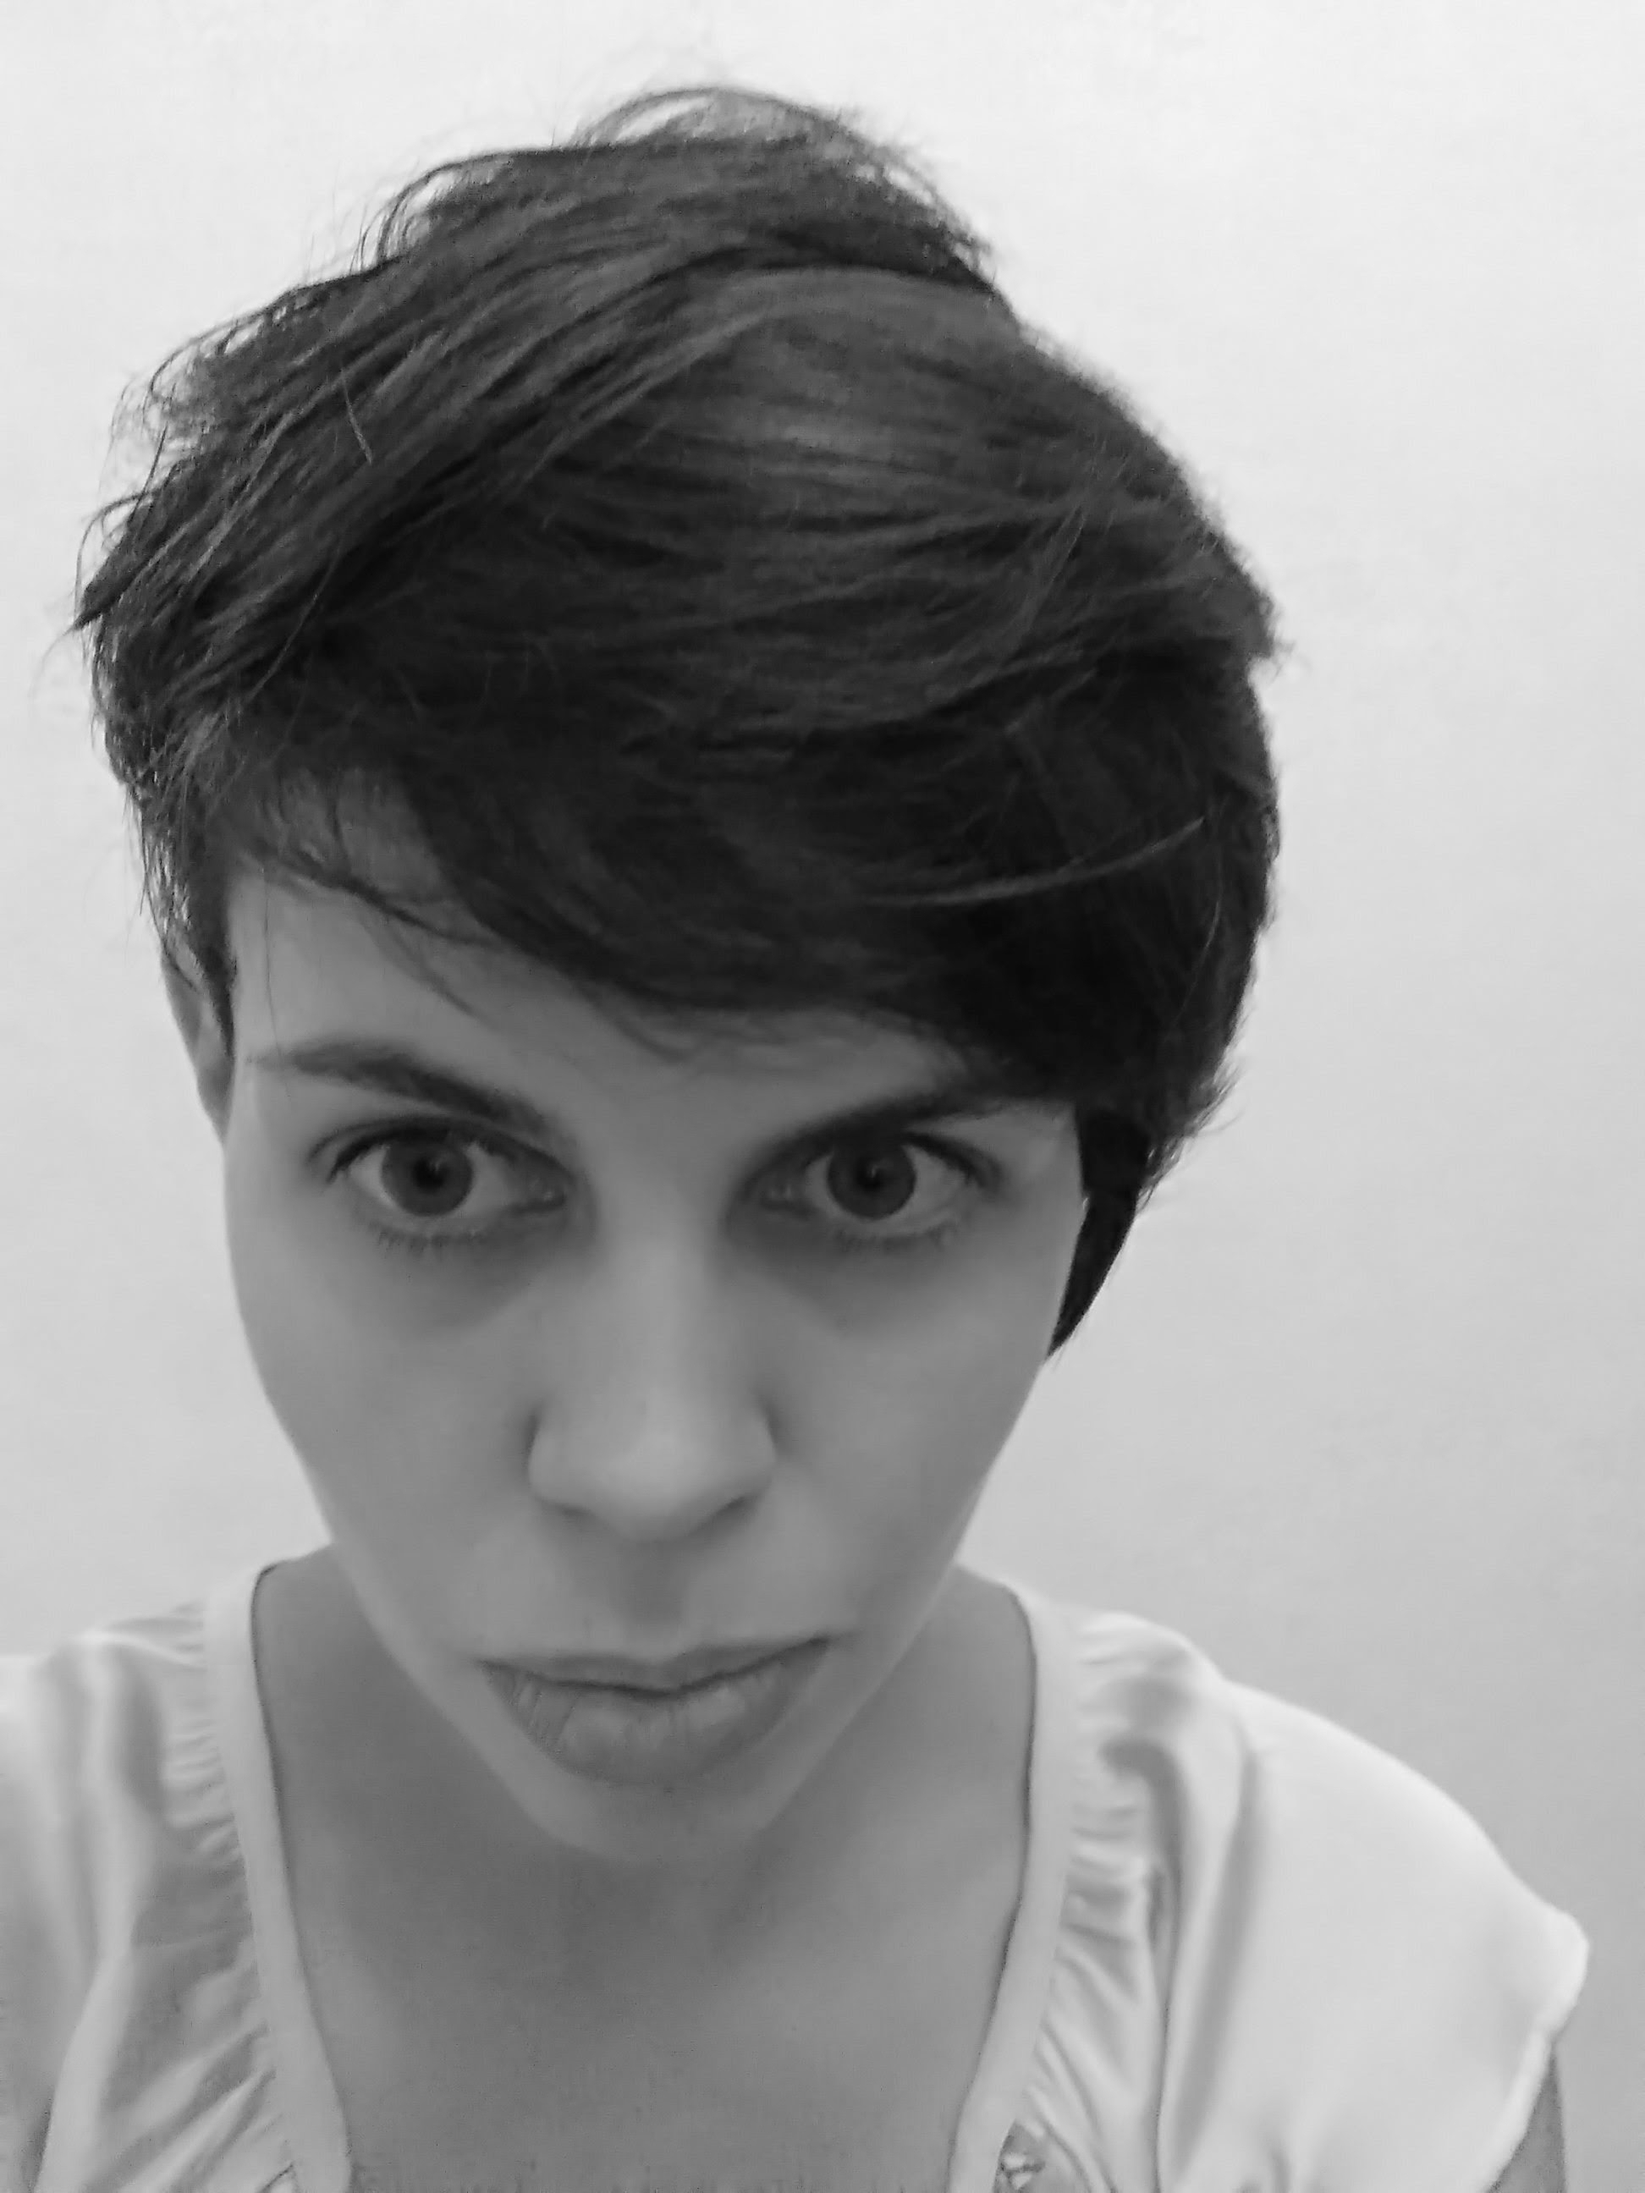
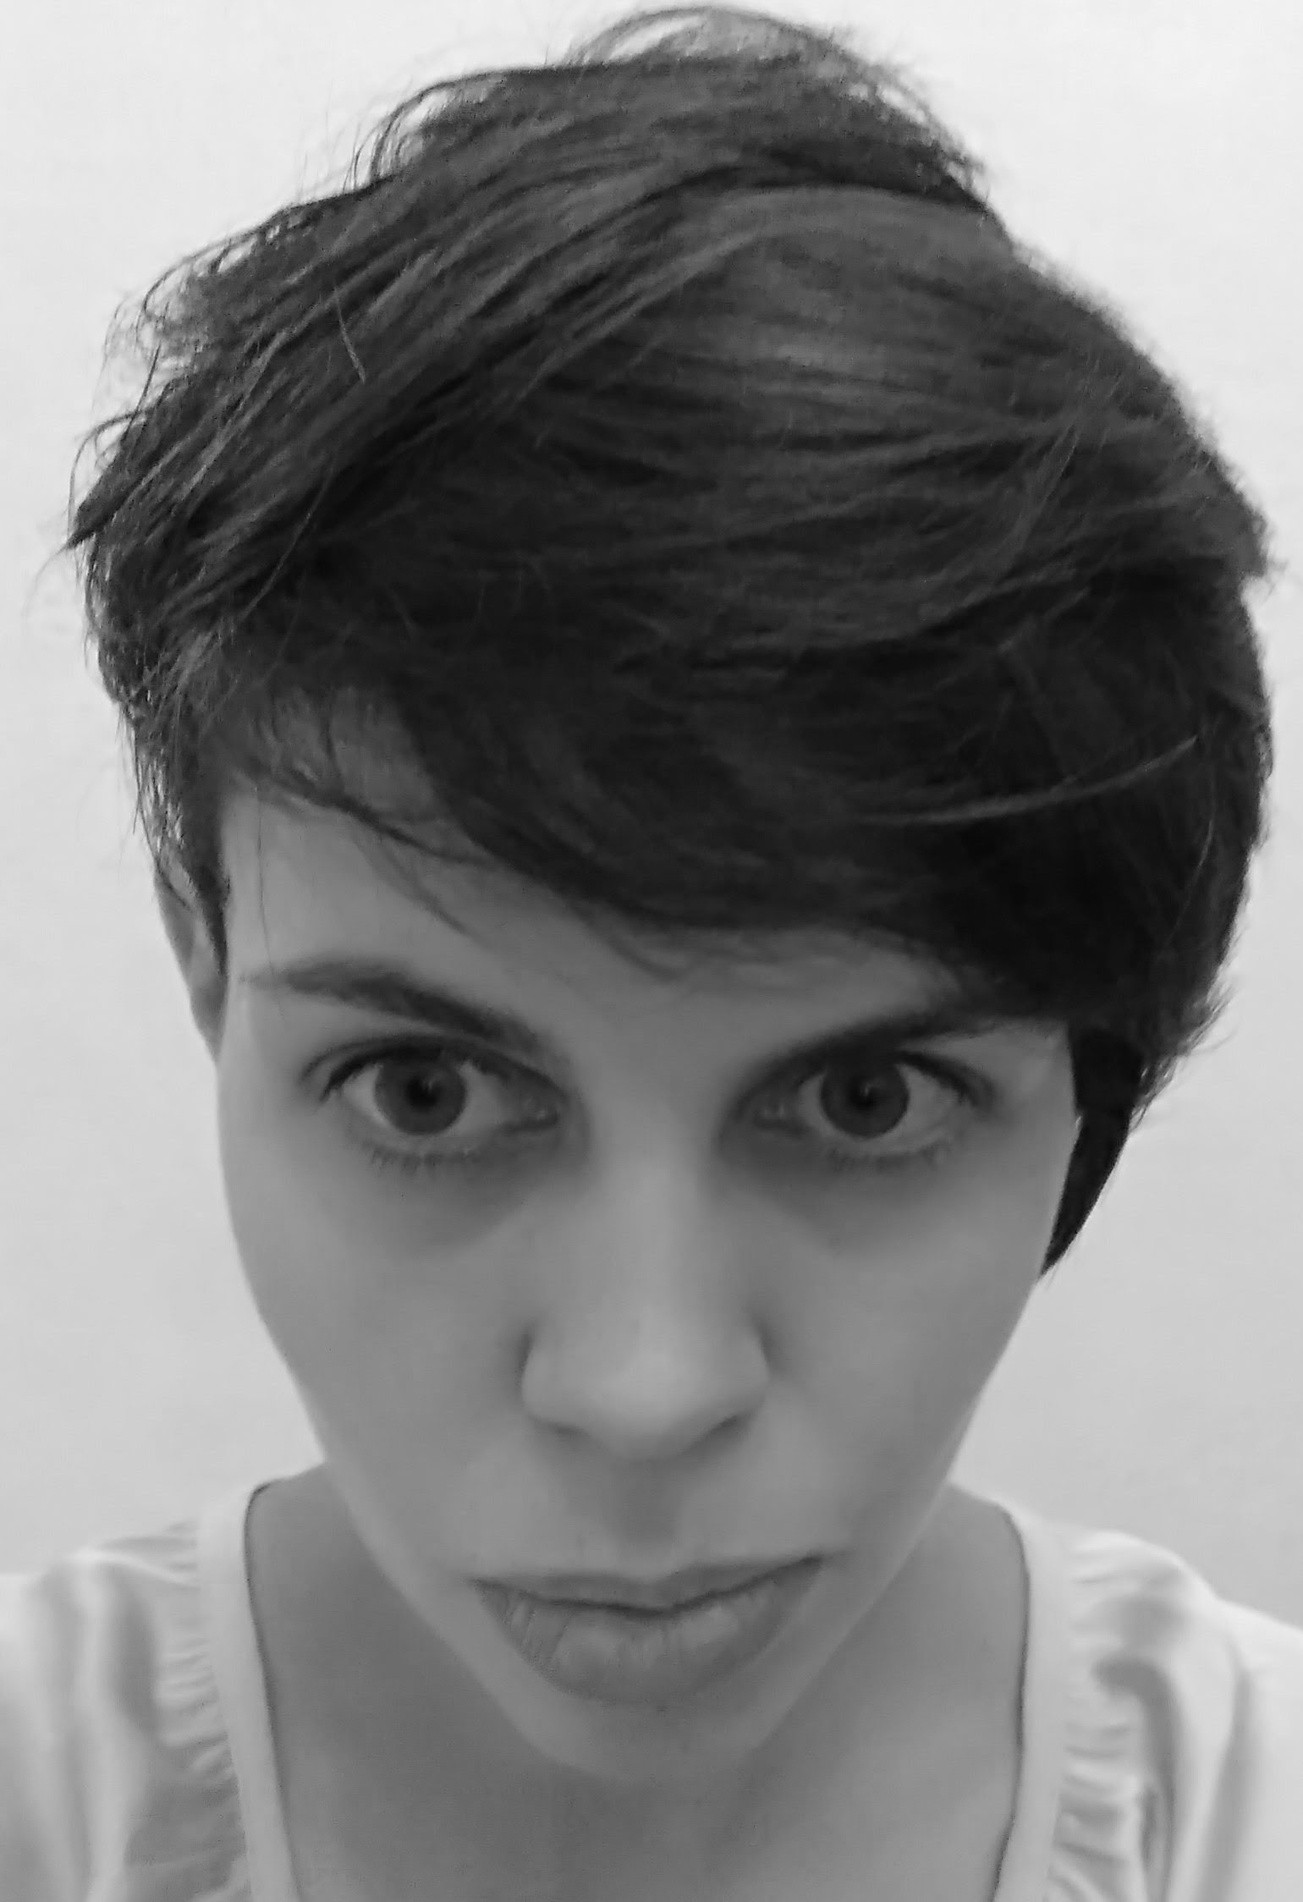
Изменила аватарку

diff --git a/index.html b/index.html
@@ -18,7 +18,7 @@
 		<!-- Header -->
 			<header id="header">
 				<div class="inner">
-					<a href="#" class="image avatar"><img src="images/avatar.jpg" alt="" /></a>
+					<a href="#" class="image avatar"><img width="200" src="images/avatar.jpg" alt="" /></a>
 					<h1><strong>Найдикова Дарья</strong><br>
 					Верстка / Front-end</h1>
 				</div>
@@ -33,12 +33,11 @@
 							<h2>Обо мне</h2>
 						</header>
 						<p>
-							Больше года назад открыла для себя мир фронтенда. Закончила интенсивные курсы
-							“Продвинутый HTML и CSS” и “Базовый JavaScript” HTML Academy и успешно защитила выпускные
+							Закончила интенсивные курсы “Продвинутый HTML и CSS” и “Базовый JavaScript” HTML Academy и успешно защитила выпускные
 							проекты.</p>
 						<h3>Что я делаю?</h3>
 							<p><b>Верстаю</b> резиново и адаптивно, максимально близко к макету. Использую методологию БЭМ,
-							препроцессоры SASS, LESS. Проверяю на соответствие макету по Pixel Perfect.</p>
+							препроцессоры SASS, LESS, систему контроля версий GIT. Проверяю на соответствие макету по Pixel Perfect.</p>
 
 							<p><b>Оживляю</b> с использованием уместных фреймворков, библиотек и чистого JS.</p>
 
